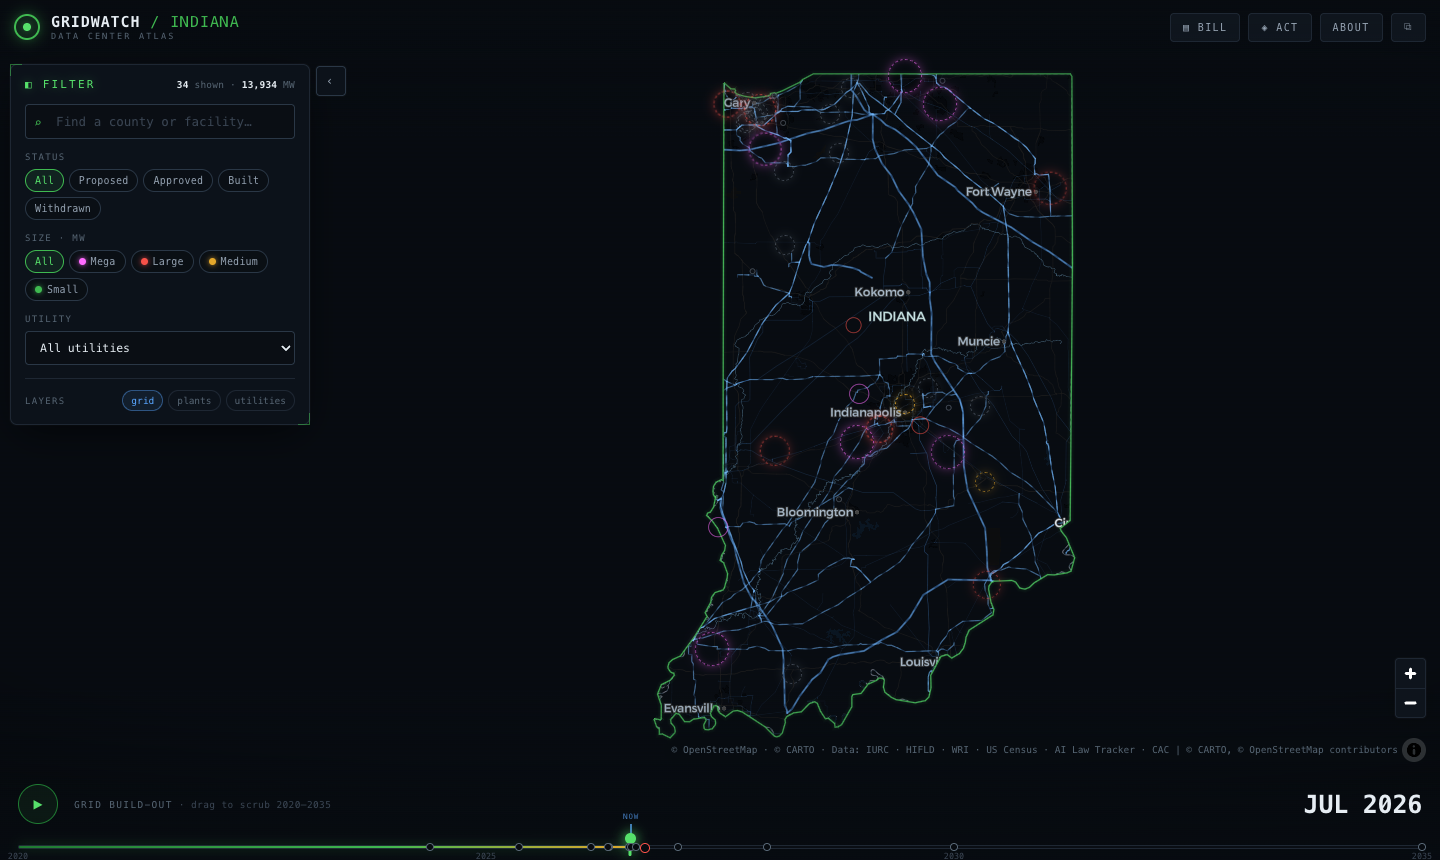
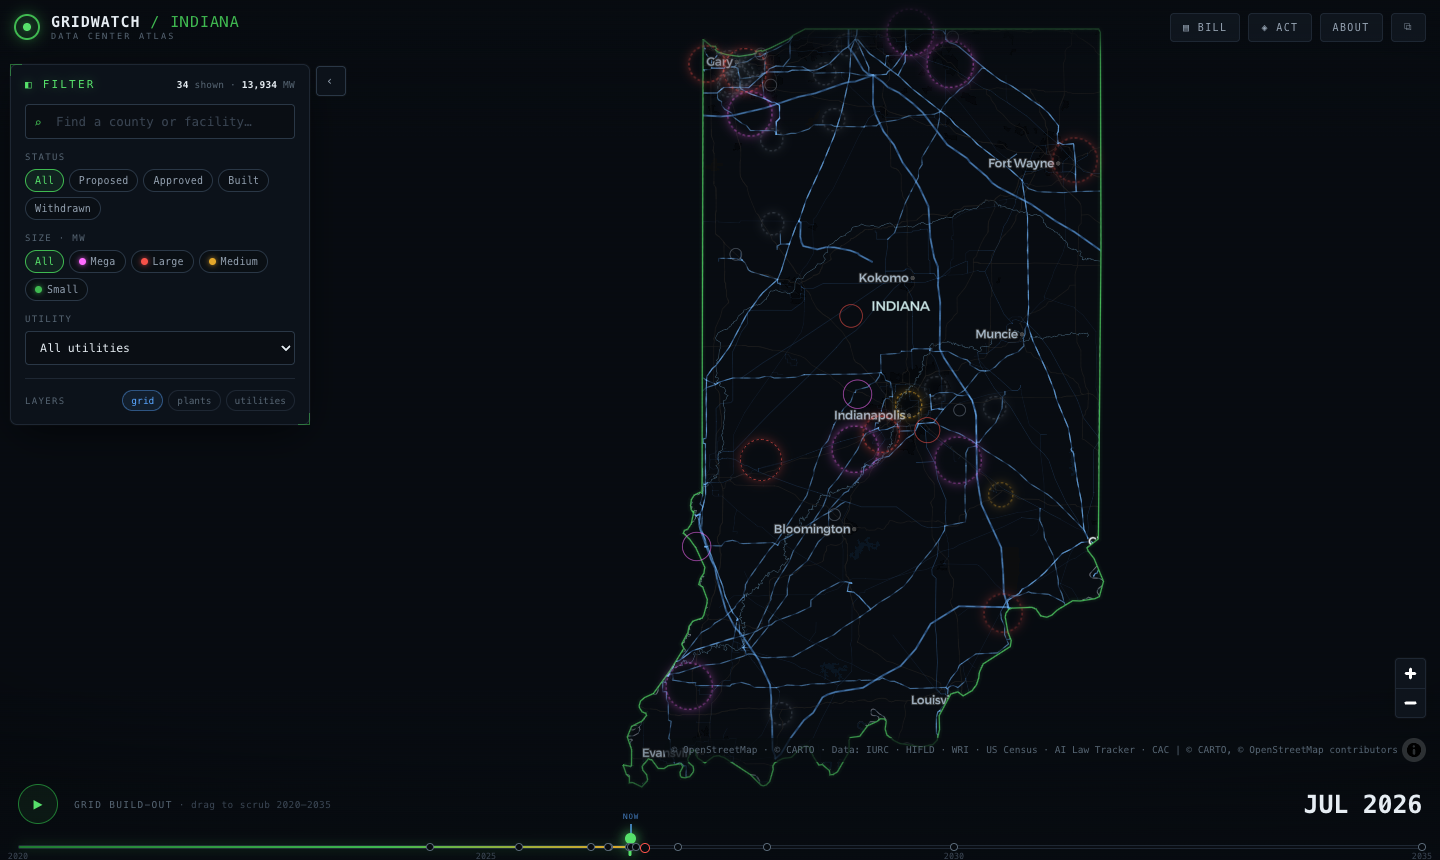
fix: proposed/approved nodes clearly visible + bigger default framing
- Nodes were too faint/tiny at the wide view (early-ramp opacity + small min
  radius + tiny undisclosed dots) so proposed/approved looked absent. Raise
  min radius (7px), wide-view size, and give not-yet-built sites a clear fixed
  opacity (0.72 core / 0.26 glow) instead of a low ramped value.
- Bigger zoomed-out framing: larger fit boost + trimmed padding, tuned so the
  whole state (Gary to Evansville) still frames.

Changed region(s): [[0.4375, 0.0302, 0.7812, 0.907]]

diff --git a/src/lib/map.ts b/src/lib/map.ts
@@ -13,12 +13,12 @@ const UPCOMING = new Set(["proposed", "approved", "rumored"]); // get dashed "ta
 /** Base pixel radius of a facility node, by megawatts. Kept small so nodes
  *  don't swamp the state. */
 function nodeRadius(mw: number): number {
-  return clamp(3 + Math.sqrt(mw) * 0.55, 4, 16);
+  return clamp(4 + Math.sqrt(mw) * 0.55, 7, 17);
 }
 
 /* Circle radius vs zoom: small dots when wide, GROWING toward the real site
  * footprint as you zoom in (the fill fades to a ring so roads show through). */
-const R_STOPS: [number, number][] = [[5, 0.55], [8, 0.95], [11, 1.7], [14, 2.9], [17, 4]];
+const R_STOPS: [number, number][] = [[5, 0.62], [8, 1], [11, 1.7], [14, 2.9], [17, 4]];
 function radiusExpr(prop: string, mult = 1): any {
   const out: any[] = ["interpolate", ["linear"], ["zoom"]];
   for (const [z, f] of R_STOPS) out.push(z, ["*", ["get", prop], f * mult]);
@@ -54,8 +54,9 @@ function buildFacFC(facilities: Facility[], year: number, filters: Filters): Geo
     const ghost = f.status === "withdrawn";
     const match = s.visible && matchFacility(f, filters);
     const r = nodeRadius(mw);
-    const coreOp = !match || ghost ? 0 : s.online ? 0.95 : 0.5 + 0.4 * s.ramp;
-    const glowOp = !match || ghost ? 0 : 0.12 + 0.34 * s.ramp;
+    // clearly visible whether built or not; brighter once online
+    const coreOp = !match || ghost ? 0 : s.online ? 0.95 : 0.72;
+    const glowOp = !match || ghost ? 0 : s.online ? 0.42 : 0.26;
     const ghostOp = match && ghost ? 0.5 : 0;
     return {
       type: "Feature" as const,
@@ -300,7 +301,7 @@ export class GridMap {
     if (window.innerWidth <= 820)
       return { top: Math.round(window.innerHeight * 0.3), bottom: 70, left: 10, right: 10 };
     const open = !document.getElementById("controls")?.classList.contains("collapsed");
-    return { top: 58, bottom: 94, left: open ? 304 : 16, right: 16 };
+    return { top: 56, bottom: 86, left: open ? 300 : 14, right: 14 };
   }
 
   applyPadding() { this.map.setPadding(this.pad()); }
@@ -316,7 +317,7 @@ export class GridMap {
     try {
       const cam: any = this.map.cameraForBounds(INDIANA_BOUNDS, { padding: this.pad(), maxZoom: 9 });
       if (cam && typeof cam.zoom === "number" && cam.zoom >= 5.5) {
-        zoom = Math.min(9, cam.zoom + 0.28);
+        zoom = Math.min(9, cam.zoom + 0.42);
       }
     } catch { /* keep fallback zoom */ }
     return { center, zoom };